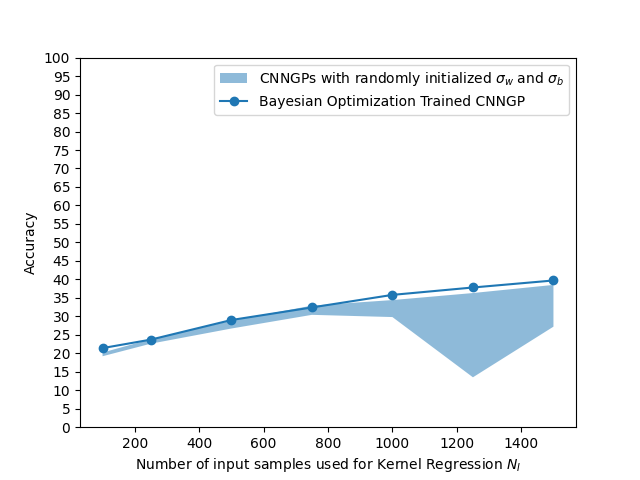
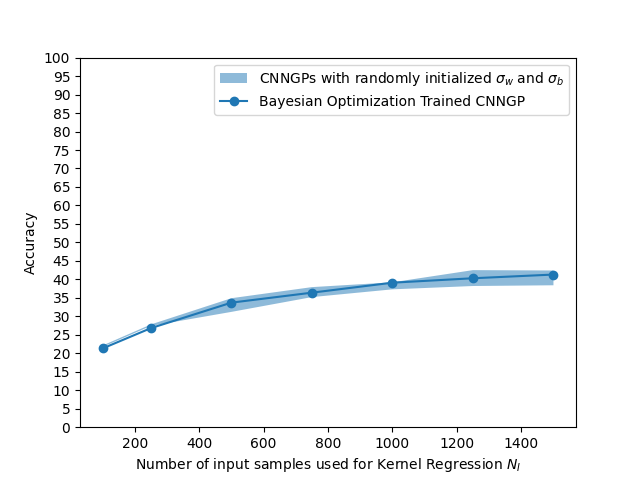
Added more docstrings

Changed region(s): [[0.1562, 0.5625, 0.875, 0.7812]]

diff --git a/utils/utils.py b/utils/utils.py
@@ -14,6 +14,18 @@ class tqdm_skopt(object):
         self._bar.update(1)
 
 def get_dataset(dataset:str, train_size: int, val_size: int, shuffle: bool = True, device: str = 'cpu')-> Union[torch.Tensor, torch.Tensor, torch.Tensor, torch.Tensor]:
+    """Get the dataset specified by the user
+
+    Args:
+        dataset (str): name of the dataset --> 'cifar', 'mnist'
+        train_size (int): Training size
+        val_size (int): Validation size
+        shuffle (bool, optional): Flag to shuffle the data. Defaults to True.
+        device (str, optional): If the data is to be ported to the GPU or should it remain on the CPU. Defaults to 'cpu'.
+
+    Returns:
+        Union[torch.Tensor, torch.Tensor, torch.Tensor, torch.Tensor]: Traing dataset, Train dataset targets, Test dataset, Test dataset targets
+    """
     if dataset == 'mnist':
         return get_MNIST_dataset(train_size=train_size, val_size=val_size, shuffle=shuffle, device=device)
     elif dataset == 'cifar':
@@ -42,13 +54,13 @@ def get_CIFAR_dataset(train_size: int, val_size: int, shuffle: bool = True, devi
     valloader = torch.utils.data.DataLoader(valset, batch_size=val_size, shuffle=shuffle)
 
     dataiter = iter(trainloader)
-    X_train, Y_train = dataiter.next()
+    X_train, Y_train = next(dataiter)
     X_train = X_train.to(device)
     Y_train = Y_train.to(device)
     Y_train = F.one_hot(Y_train, 10).to(torch.float32)
 
     dataiter_val = iter(valloader)
-    X_test, Y_test = dataiter_val.next()
+    X_test, Y_test = next(dataiter_val)
     X_test = X_test.to(device)
     Y_test = Y_test.to(device)
 
@@ -77,13 +89,13 @@ def get_MNIST_dataset(train_size: int, val_size: int, shuffle: bool = True, devi
     valloader = torch.utils.data.DataLoader(valset, batch_size=val_size, shuffle=shuffle)
 
     dataiter = iter(trainloader)
-    X_train, Y_train = dataiter.next()
+    X_train, Y_train = next(dataiter)
     X_train = X_train.to(device)
     Y_train = Y_train.to(device)
     Y_train = F.one_hot(Y_train, 10).to(torch.float32)
 
     dataiter_val = iter(valloader)
-    X_test, Y_test = dataiter_val.next()
+    X_test, Y_test = next(dataiter_val)
     X_test = X_test.to(device)
     Y_test = Y_test.to(device)
 

diff --git a/exp_kf_cnngp/kernel_flow_bayesian_optimization_CIFAR.py b/exp_kf_cnngp/kernel_flow_bayesian_optimization_CIFAR.py
@@ -1,4 +1,6 @@
-import copy
+"""
+This script tests the parameteric kernel flows algorithm using bayesian optimization for CNNGPs on the CIFAR dataset
+"""
 import torch
 import numpy as np
 import matplotlib.pyplot as plt
@@ -59,7 +61,7 @@ def main(_):
     plot_convergence(res, ax=ax)
     ax.set_ylim((0,1))
     plt.show()
-    # fig.savefig('./figs/bayesian_optimization_convergence_' + FLAGS.CNNGP_model + "_" + FLAGS.dataset + '.png')
+    fig.savefig('./figs/bayesian_optimization_convergence_' + FLAGS.CNNGP_model + "_" + FLAGS.dataset + '.png')
 
     bo_acc = []
     for N_i in tqdm(N_i_arr):
@@ -82,9 +84,14 @@ def main(_):
     plt.yticks(np.arange(0, 101, 5.0))
     plt.legend()
     plt.show()
-    # fig.savefig('./figs/bayesian_optimization_accuracy_' + FLAGS.CNNGP_model + "_" + FLAGS.dataset + '.png')
+    fig.savefig('./figs/bayesian_optimization_accuracy_' + FLAGS.CNNGP_model + "_" + FLAGS.dataset + '.png')
 
 if __name__ == '__main__':
+    """Flags can be changed as follows:
+    For CNNGP model: simple, convnet, convnet_cifar, simple_cifar (models with cifar in their name only work for CIFAR-10 dataset. Rest only work for MNIST) 
+                    --> Other models can be added by adding the relevant architecture to the kernel_flow_configs.py file
+    For Data: mnist, cifar --> Other datasets can also be added by editing the kernel_flow_configs.py file.
+    """
     f = absl.app.flags
     f.DEFINE_string("CNNGP_model", "convnet_cifar",
                     "which CNNGP model to test on. For random convnet use convnet. For convnet from Alonso et al use alonso_etal_convnet. For simple model use simple.")

diff --git a/exp_kf_cnngp/kernel_flow_autograd.py b/exp_kf_cnngp/kernel_flow_autograd.py
@@ -1,3 +1,6 @@
+"""
+This script tests the parameteric kernel flows algorithm using gradient based optimization with the automatic differenciation engine of pytorch for CNNGPs
+"""
 import time
 import torch
 import numpy as np
@@ -36,10 +39,6 @@ def main(_):
 
         Y_predictions_rand_cnngp_labels = get_label_from_probability(Y_predictions_rand_cnngp)
         rand_acc.append(accuracy_score(Y_predictions_rand_cnngp_labels, Y_test.cpu().numpy()) * 100)
-
-    # plt.plot(rand_acc)
-    # plt.ylim((0,100))
-    # plt.show()
 
     KF_autograd = KernelFlowsTorch(cnn_gp, device=DEVICE, regularization_lambda=1e-4)
     iteration_count = 1000
@@ -85,6 +84,11 @@ def main(_):
     # fig.savefig('./figs/autograd_accuracy_' + FLAGS.CNNGP_model + "_" + FLAGS.dataset + '.png')
 
 if __name__ == '__main__':
+    """Flags can be changed as follows:
+    For CNNGP model: simple, convnet, convnet_cifar, simple_cifar (models with cifar in their name only work for CIFAR-10 dataset. Rest only work for MNIST) 
+                    --> Other models can be added by adding the relevant architecture to the kernel_flow_configs.py file
+    For Data: mnist, cifar --> Other datasets can also be added by editing the kernel_flow_configs.py file.
+    """
     f = absl.app.flags
     f.DEFINE_string("CNNGP_model", "simple",
                     "which CNNGP model to test on")

diff --git a/exp_kf_cnngp/kernel_flow_finite_difference_CIFAR.py b/exp_kf_cnngp/kernel_flow_finite_difference_CIFAR.py
@@ -1,3 +1,6 @@
+"""
+This script demonstrates the differences that arise when kernel ridge regression on the CPU vs on the GPU under different precision settings on pytorch.
+"""
 import copy
 import torch
 import numpy as np
@@ -94,6 +97,11 @@ def main(_):
     fig.savefig('./figs/finite_difference_accuracy_' + FLAGS.CNNGP_model + "_" + FLAGS.dataset + '.png')
 
 if __name__ == '__main__':
+    """Flags can be changed as follows:
+    For CNNGP model: simple, convnet, convnet_cifar, simple_cifar (models with cifar in their name only work for CIFAR-10 dataset. Rest only work for MNIST) 
+                    --> Other models can be added by adding the relevant architecture to the kernel_flow_configs.py file
+    For Data: mnist, cifar --> Other datasets can also be added by editing the kernel_flow_configs.py file.
+    """
     f = absl.app.flags
     f.DEFINE_string("CNNGP_model", "convnet_cifar",
                     "which CNNGP model to test on. For random convnet use convnet. For Convnet from Alonso et al use alonso_etal_convnet. For simple model use simple.")

diff --git a/test/test_KernelFlow/test_kernel_collection/test_kernel_functions.py b/test/test_KernelFlow/test_kernel_collection/test_kernel_functions.py
@@ -22,11 +22,11 @@ def test_rbf():
     device = torch.device('cuda' if torch.cuda.is_available() else 'cpu')
 
     dataiter = iter(trainloader)
-    X_train, Y_train = dataiter.next()
+    X_train, Y_train = next(dataiter)
     Y_train = F.one_hot(Y_train, 10)
 
     dataiter_val = iter(valloader)
-    X_test, Y_test = dataiter_val.next()
+    X_test, Y_test = next(dataiter_val)
 
     kernel_control = kernel_RBF(matrix_1=torch.flatten(X_train, 1, -1).detach().numpy().squeeze(),
                             matrix_2=torch.flatten(X_train, 1, -1).detach().numpy().squeeze(),

diff --git a/exp_kf_cnngp/kernel_flow_bayesian_optimization.py b/exp_kf_cnngp/kernel_flow_bayesian_optimization.py
@@ -22,7 +22,7 @@ DEVICE = torch.device('cuda' if torch.cuda.is_available() else 'cpu')
 def main(_):
     X_train, Y_train, X_test, Y_test = get_dataset(dataset=FLAGS.dataset, train_size=50000, val_size=1000, device=DEVICE)
 
-    N_i_arr = np.arange(100, 400, 100)
+    N_i_arr = [100, 250, 500, 750, 1000, 1250, 1500]
 
     rand_acc_matrix = []
     # Getting accuracy for randomly initialized CNNGP

diff --git a/exp_kf_cnngp/cpu_vs_gpu_kernel_regression.py b/exp_kf_cnngp/cpu_vs_gpu_kernel_regression.py
@@ -1,3 +1,6 @@
+"""
+This script demonstrates the differences that arise when performing kernel ridge regression on the CPU vs on the GPU under different precision settings on pytorch.
+"""
 import torch
 import numpy as np
 import matplotlib.pyplot as plt

diff --git a/exp_kf_cnngp/cpu_vs_gpu_general.py b/exp_kf_cnngp/cpu_vs_gpu_general.py
@@ -1,3 +1,6 @@
+"""
+This script demonstrates the differences that arise when performing matrix multiplication on the CPU vs on the GPU under different precision settings on pytorch.
+"""
 import torch
 import numpy as np
 from tqdm import tqdm

diff --git a/exp_kf_cnngp/kernel_flow_finite_difference.py b/exp_kf_cnngp/kernel_flow_finite_difference.py
@@ -1,3 +1,6 @@
+"""
+This script demonstrates the differences that arise when kernel ridge regression on the CPU vs on the GPU under different precision settings on pytorch.
+"""
 import copy
 import torch
 import numpy as np
